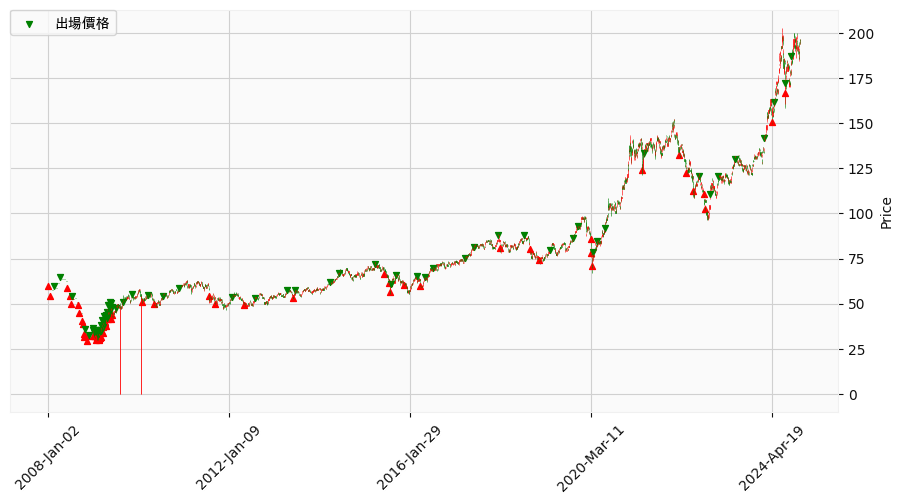
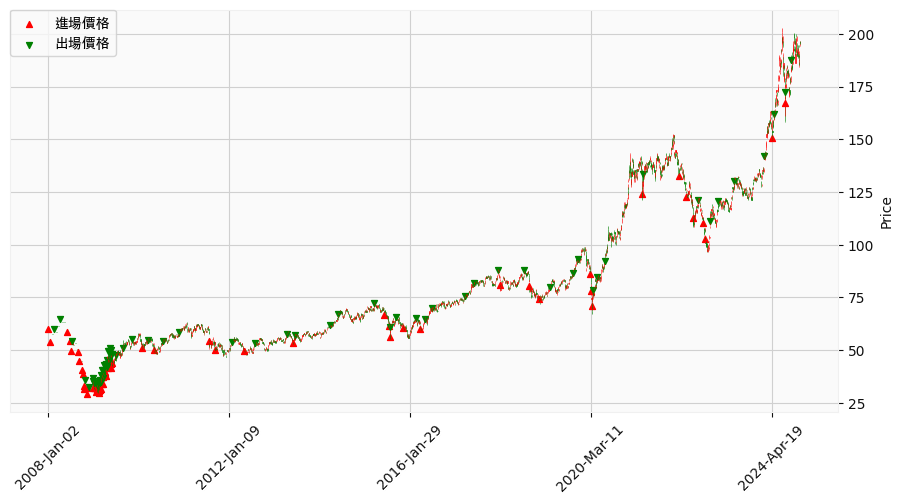
Commit on 2024-12-09 16:34:49

diff --git a/D73_網格交易測試/14_繪圖.md b/D73_網格交易測試/14_繪圖.md
@@ -501,6 +501,16 @@ _使用前面步驟所得的 `position_table` 進行繪圖_
 
 4. 再次繪圖就不會看到垂直紅線了；另外，這裡僅僅是驗證產生紅線的原因，之後再補充處理遺漏值之後重新進行回測。
 
+    ```python
+    mpf.plot(
+        data, 
+        type="candle", 
+        addplot=addp, 
+        style=mstyle, 
+        warn_too_much_data=999999
+    )
+    ```    
+
     ![](images/img_80.png)
 
 <br>
